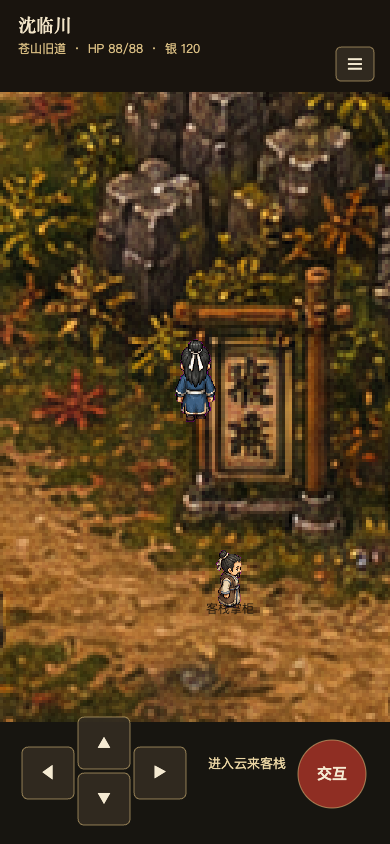
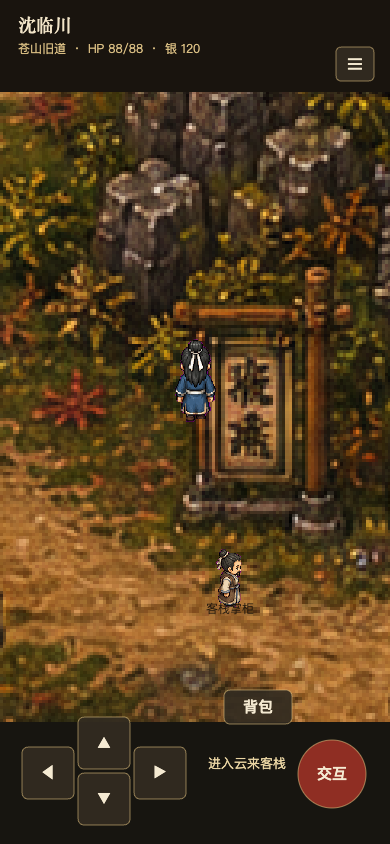
feat: improve portrait map and inventory flow

Changed region(s): [[0.5538, 0.8009, 0.7692, 0.8626], [0.5538, 0.6469, 0.6154, 0.7393]]

diff --git a/wechat-minigame/js/uiRenderer.js b/wechat-minigame/js/uiRenderer.js
@@ -67,6 +67,7 @@ class UiRenderer {
     this.button(context, "down", 78, baseY - 5, 52, 52, "▼", "control");
     this.button(context, "right", 134, baseY - 31, 52, 52, "▶", "control");
     this.button(context, "interact", this.viewport.width - 92, baseY - 38, 68, 68, trigger ? "交互" : "查看", trigger ? "primaryRound" : "disabledRound");
+    this.button(context, "inventory", this.viewport.width - 166, baseY - 88, 68, 34, "背包", "normal");
     if (this.lastState?.worldMapUnlocked) this.button(context, "worldmap", this.viewport.width - 92, baseY - 88, 68, 34, "舆图", "normal");
     if (trigger) {
       context.textAlign = "right";
@@ -82,7 +83,7 @@ class UiRenderer {
     context.fillStyle = "#171510";
     context.fillRect(0, 0, width, height);
     if (state.images.worldMap) {
-      context.drawImage(state.images.worldMap, 0, 0, width, height);
+      drawImageCover(context, state.images.worldMap, 0, 0, width, height);
       context.fillStyle = "rgba(12, 10, 7, 0.28)";
       context.fillRect(0, 0, width, height);
     }
@@ -95,6 +96,58 @@ class UiRenderer {
     context.fillText(`苍山据点 ${state.cleared}/${state.total}`, 20, this.headerHeight - 22);
     for (const node of state.nodes) this.worldNode(context, node);
     this.button(context, "closeWorldMap", width - 86, this.headerHeight - 58, 66, 38, "返回", "normal");
+  }
+
+  renderInventory(context, state) {
+    this.buttons = [];
+    const { width, height } = this.viewport;
+    context.fillStyle = "#171510";
+    context.fillRect(0, 0, width, height);
+    context.fillStyle = "rgba(34, 28, 20, 0.98)";
+    roundedRect(context, 12, this.headerHeight - 66, width - 24, height - this.headerHeight + 52, 6);
+    context.fill();
+    context.strokeStyle = "rgba(224, 192, 126, 0.58)";
+    context.stroke();
+    context.textAlign = "left";
+    context.fillStyle = "#f4e6c6";
+    context.font = "700 22px serif";
+    context.fillText("背包", 28, this.headerHeight - 28);
+    context.font = "12px sans-serif";
+    context.fillStyle = "#dbc287";
+    context.fillText(`银两 ${state.money}`, 28, this.headerHeight - 8);
+    this.button(context, "closeInventory", width - 86, this.headerHeight - 58, 66, 38, "返回", "normal");
+
+    const listY = this.headerHeight + 24;
+    const entries = state.entries || [];
+    if (!entries.length) {
+      context.textAlign = "center";
+      context.fillStyle = "rgba(245, 234, 210, 0.66)";
+      context.font = "14px sans-serif";
+      context.fillText("背包里还没有物品", width / 2, listY + 82);
+      return;
+    }
+    entries.slice(0, 8).forEach(({ item, amount }, index) => {
+      const y = listY + index * 68;
+      context.fillStyle = "rgba(18, 15, 10, 0.74)";
+      roundedRect(context, 24, y, width - 48, 56, 5);
+      context.fill();
+      context.strokeStyle = "rgba(224, 192, 126, 0.22)";
+      context.stroke();
+      context.fillStyle = itemColor(item.rarity);
+      roundedRect(context, 36, y + 10, 36, 36, 5);
+      context.fill();
+      context.textAlign = "center";
+      context.fillStyle = "#19140e";
+      context.font = "700 17px serif";
+      context.fillText(item.name.slice(0, 1), 54, y + 34);
+      context.textAlign = "left";
+      context.fillStyle = "#f6ead2";
+      context.font = "700 14px sans-serif";
+      context.fillText(`${item.name} x${amount}`, 84, y + 22);
+      context.fillStyle = "#cdb57d";
+      context.font = "11px sans-serif";
+      context.fillText(`${item.type} · ${item.rarity} · ${item.effect}`, 84, y + 40);
+    });
   }
 
   renderDialog(context, page) {
@@ -190,6 +243,21 @@ function drawWrappedText(context, text, x, y, maxWidth, lineHeight, maxLines) {
     } else line = candidate;
   }
   if (lineNumber < maxLines) context.fillText(line, x, y + lineNumber * lineHeight);
+}
+
+function drawImageCover(context, image, x, y, width, height) {
+  const scale = Math.max(width / image.width, height / image.height);
+  const sourceWidth = width / scale;
+  const sourceHeight = height / scale;
+  const sourceX = (image.width - sourceWidth) / 2;
+  const sourceY = (image.height - sourceHeight) / 2;
+  context.drawImage(image, sourceX, sourceY, sourceWidth, sourceHeight, x, y, width, height);
+}
+
+function itemColor(rarity) {
+  if (rarity === "精良") return "#83b9d7";
+  if (rarity === "稀有") return "#d5b45f";
+  return "#b9c28c";
 }
 
 module.exports = { UiRenderer };

diff --git a/wechat-minigame/js/config.js b/wechat-minigame/js/config.js
@@ -28,6 +28,9 @@ const ASSETS = {
   hero: "character-pack/hero.png",
   companion: "character-pack/companion.png",
   scout: "character-pack/scout.png",
+  scoutArcher: "character-pack/scout-archer.png",
+  monkGuard: "character-pack/monk-guard.png",
+  yipintangLeader: "character-pack/yipintang-leader.png",
   vendor: "character-pack/vendor.png",
   keeper: "character-pack/keeper.png",
   battleMap: "battle-pack/battle-courtyard.png",
@@ -47,23 +50,25 @@ const BATTLE = {
   ],
   enemies: [
     { id: "scoutA", name: "暗哨甲", sprite: "scout", side: "enemy", x: 4, y: 7, hp: 38, qi: 40, move: 2, range: 1, damage: 18, skill: "短刀" },
-    { id: "scoutB", name: "暗哨乙", sprite: "scout", side: "enemy", x: 5, y: 5, hp: 46, qi: 40, move: 2, range: 1, damage: 18, skill: "短刀" }
+    { id: "scoutB", name: "竹林弩手", sprite: "scoutArcher", side: "enemy", x: 5, y: 5, hp: 46, qi: 40, move: 2, range: 1, damage: 18, skill: "袖弩" }
   ],
   rewards: {
     money: { min: 18, max: 35 },
     drops: [
       { itemId: "hemostatic_powder", name: "止血散", chance: 1, min: 1, max: 1 },
-      { itemId: "scout_token", name: "密探令牌", chance: 0.35, min: 1, max: 1 }
+      { itemId: "qingxin_pill", name: "清心丸", chance: 0.42, min: 1, max: 1 },
+      { itemId: "scout_token", name: "密探令牌", chance: 0.35, min: 1, max: 1 },
+      { itemId: "steel_saber", name: "雁翎刀", chance: 0.12, min: 1, max: 1 }
     ]
   }
 };
 
-const SCOUT_IDS = ["scout", "scout_road", "scout_gate"];
+const SCOUT_IDS = ["scout", "scout_bridge", "scout_archer", "scout_road", "scout_monk", "scout_gate"];
 
 const WORLD_NODES = [
-  { id: "cangshan", name: "苍山旧道", x: 148, y: 420, status: "current" },
-  { id: "erhai", name: "洱海渡口", x: 254, y: 300, status: "locked" },
-  { id: "jianhu", name: "剑湖宫道", x: 124, y: 204, status: "locked" }
+  { id: "cangshan", name: "苍山旧道", x: 168, y: 610, status: "current" },
+  { id: "erhai", name: "洱海渡口", x: 292, y: 430, status: "locked" },
+  { id: "jianhu", name: "剑湖宫道", x: 122, y: 176, status: "locked" }
 ];
 
 const ROOM_COLLISIONS = [
@@ -151,15 +156,21 @@ const MAPS = {
       { id: "teahouseDoor", x: 2220, y: 1120, width: 230, height: 180, label: "进入松风茶肆" },
       { id: "vendor", x: 3260, y: 2500, width: 220, height: 220, label: "询问药摊老人" },
       { id: "scout", x: 790, y: 660, width: 210, height: 190, label: "挑战西岭密探" },
+      { id: "scout_bridge", x: 1510, y: 2500, width: 220, height: 190, label: "挑战桥头暗哨" },
+      { id: "scout_archer", x: 2020, y: 1840, width: 220, height: 190, label: "挑战竹林弩手" },
       { id: "scout_road", x: 2320, y: 1440, width: 210, height: 190, label: "挑战拦路密探" },
+      { id: "scout_monk", x: 2860, y: 1160, width: 220, height: 190, label: "挑战寺前护卫" },
       { id: "scout_gate", x: 3380, y: 1660, width: 210, height: 190, label: "挑战山门密探" }
     ],
     npcs: [
       { id: "keeper", name: "客栈掌柜", sprite: "keeper", x: 2735, y: 2525, direction: "right" },
       { id: "vendor", name: "药摊老人", sprite: "vendor", x: 3370, y: 2600, direction: "down" },
       { id: "scout", name: "西岭密探", sprite: "scout", x: 895, y: 745, direction: "down" },
+      { id: "scout_bridge", name: "桥头暗哨", sprite: "scout", x: 1730, y: 2520, direction: "left" },
+      { id: "scout_archer", name: "竹林弩手", sprite: "scoutArcher", x: 2240, y: 1845, direction: "left" },
       { id: "scout_road", name: "拦路密探", sprite: "scout", x: 2425, y: 1525, direction: "down" },
-      { id: "scout_gate", name: "山门密探", sprite: "scout", x: 3485, y: 1745, direction: "down" }
+      { id: "scout_monk", name: "寺前护卫", sprite: "monkGuard", x: 3080, y: 1180, direction: "left" },
+      { id: "scout_gate", name: "山门首领", sprite: "yipintangLeader", x: 3485, y: 1745, direction: "down" }
     ]
   },
   room: {

diff --git a/wechat-minigame/js/gameApp.js b/wechat-minigame/js/gameApp.js
@@ -5,6 +5,7 @@ const { MapManager } = require("./mapManager");
 const { DialogSystem } = require("./dialogSystem");
 const { UiRenderer } = require("./uiRenderer");
 const { BattleScene } = require("./battleScene");
+const { inventoryEntries } = require("./itemCatalog");
 
 const SAVE_KEY = "cangshan-rpg-save-v1";
 
@@ -96,6 +97,10 @@ class GameApp {
       cleared: this.defeatedScouts.size,
       total: SCOUT_IDS.length
     });
+    if (this.mode === "inventory") return this.ui.renderInventory(ctx, {
+      money: this.money,
+      entries: inventoryEntries(this.items)
+    });
     if (this.mode === "battle") return this.battle.render(ctx, this.ui);
     this.ui.render(ctx, {
       mode: this.mode,
@@ -141,6 +146,8 @@ class GameApp {
     if (button === "continue") return this.loadGame();
     if (button === "music") return this.toggleMusic();
     if (button === "menu") return this.openMenu();
+    if (button === "inventory") return this.openInventory();
+    if (button === "closeInventory") return this.closeInventory();
     if (button === "worldmap") return this.openWorldMap();
     if (button === "closeWorldMap") return this.closeWorldMap();
     if (button === "interact") return this.interact();
@@ -151,7 +158,7 @@ class GameApp {
   newGame() {
     this.mode = "game";
     this.money = 120;
-    this.items = {};
+    this.items = { hemostatic_powder: 2, qingxin_pill: 1 };
     this.defeatedScouts = new Set();
     this.currentBattleTriggerId = null;
     this.worldMapUnlocked = false;
@@ -195,7 +202,10 @@ class GameApp {
         { label: "继续搜索" }
       ] });
     } else if (trigger.id === "wardrobe") {
-      this.dialog.show({ speaker: "木柜", text: "柜门吱呀打开。旧布囊里有碎银和一封未署名的信。", choices: [{ label: "收下线索" }] });
+      this.addItem("silver_piece", 1);
+      this.addItem("unsigned_letter", 1);
+      this.money += 12;
+      this.dialog.show({ speaker: "木柜", text: "柜门吱呀打开。旧布囊里有碎银和一封未署名的信。已放入背包。", choices: [{ label: "收下线索" }] });
     } else if (trigger.id === "desk") {
       this.dialog.show({ speaker: "账册", text: "夹页反复写着“灯亭、铜匣、寺后”，三处似乎指向同一条密道。" });
     } else if (trigger.id === "vendor") {
@@ -311,6 +321,19 @@ class GameApp {
 
   closeWorldMap() {
     this.mode = "game";
+  }
+
+  openInventory() {
+    this.axis = { x: 0, y: 0 };
+    this.mode = "inventory";
+  }
+
+  closeInventory() {
+    this.mode = "game";
+  }
+
+  addItem(itemId, amount = 1) {
+    this.items[itemId] = (this.items[itemId] || 0) + amount;
   }
 
   resolveActiveTrigger() {

diff --git a/wechat-minigame/js/itemCatalog.js b/wechat-minigame/js/itemCatalog.js
@@ -1,0 +1,77 @@
+const ITEM_CATALOG = {
+  hemostatic_powder: {
+    id: "hemostatic_powder",
+    name: "止血散",
+    type: "药品",
+    rarity: "常见",
+    effect: "恢复少量气血",
+    description: "江湖常备外伤药，战后止血最稳妥。"
+  },
+  qingxin_pill: {
+    id: "qingxin_pill",
+    name: "清心丸",
+    type: "药品",
+    rarity: "常见",
+    effect: "恢复少量真气",
+    description: "薄荷与沉香调成，可缓解迷香和内息紊乱。"
+  },
+  iron_sword: {
+    id: "iron_sword",
+    name: "青锋剑",
+    type: "武器",
+    rarity: "常见",
+    effect: "攻击 +6",
+    description: "锋口干净的铁剑，适合初入江湖者。"
+  },
+  steel_saber: {
+    id: "steel_saber",
+    name: "雁翎刀",
+    type: "武器",
+    rarity: "精良",
+    effect: "攻击 +9",
+    description: "刀身略弯，劈斩有力。"
+  },
+  scout_token: {
+    id: "scout_token",
+    name: "密探令牌",
+    type: "剧情",
+    rarity: "精良",
+    effect: "剧情线索",
+    description: "暗哨身上搜出的令牌，可证明西岭门潜入大理。"
+  },
+  silver_piece: {
+    id: "silver_piece",
+    name: "碎银",
+    type: "财物",
+    rarity: "常见",
+    effect: "可折算银两",
+    description: "柜中找到的小块碎银。"
+  },
+  unsigned_letter: {
+    id: "unsigned_letter",
+    name: "无名信",
+    type: "剧情",
+    rarity: "常见",
+    effect: "剧情线索",
+    description: "没有署名的短笺，提到了灯亭和铜匣。"
+  }
+};
+
+function itemById(id) {
+  return ITEM_CATALOG[id] || {
+    id,
+    name: id,
+    type: "未知",
+    rarity: "常见",
+    effect: "未配置",
+    description: "这个物品还没有配置说明。"
+  };
+}
+
+function inventoryEntries(items) {
+  return Object.entries(items || {})
+    .filter(([, amount]) => amount > 0)
+    .map(([itemId, amount]) => ({ item: itemById(itemId), amount }));
+}
+
+module.exports = { ITEM_CATALOG, itemById, inventoryEntries };

diff --git a/WECHAT_MINIGAME_MEMORY.md b/WECHAT_MINIGAME_MEMORY.md
@@ -72,6 +72,7 @@ lsof -nP -iTCP:4174 -sTCP:LISTEN
 - 资产脚本生成 WAV 时必须用确定性噪声，不要直接用 `Math.random()`，否则每次 `npm run wechat:assets` 都会产生无意义二进制 diff。
 - 房间入口要配置成“门前触发区 + exitTo 回到原地图坐标”，不要把进入房间逻辑写死在某一个客栈分支里；新增房间后同步扩展地图 debug 截图点。
 - imagegen 生成的正式地图/房间原图要先保存到 `assets/generated/...`，再由 `scripts/copy-wechat-assets.mjs` 压缩到 `wechat-minigame/*-pack/`。不要只手动覆盖微信运行包，否则下一次 `npm run wechat:assets` 会把图刷回旧版本。
+- 微信竖屏舆图必须按 `390x844` 同比例设计，运行包用 `780x1688`。不要把横图或宽图压成 `780x624` 后再画到竖屏 canvas，那会产生非等比拉伸。
 
 ## 微信开发者工具踩坑
 
